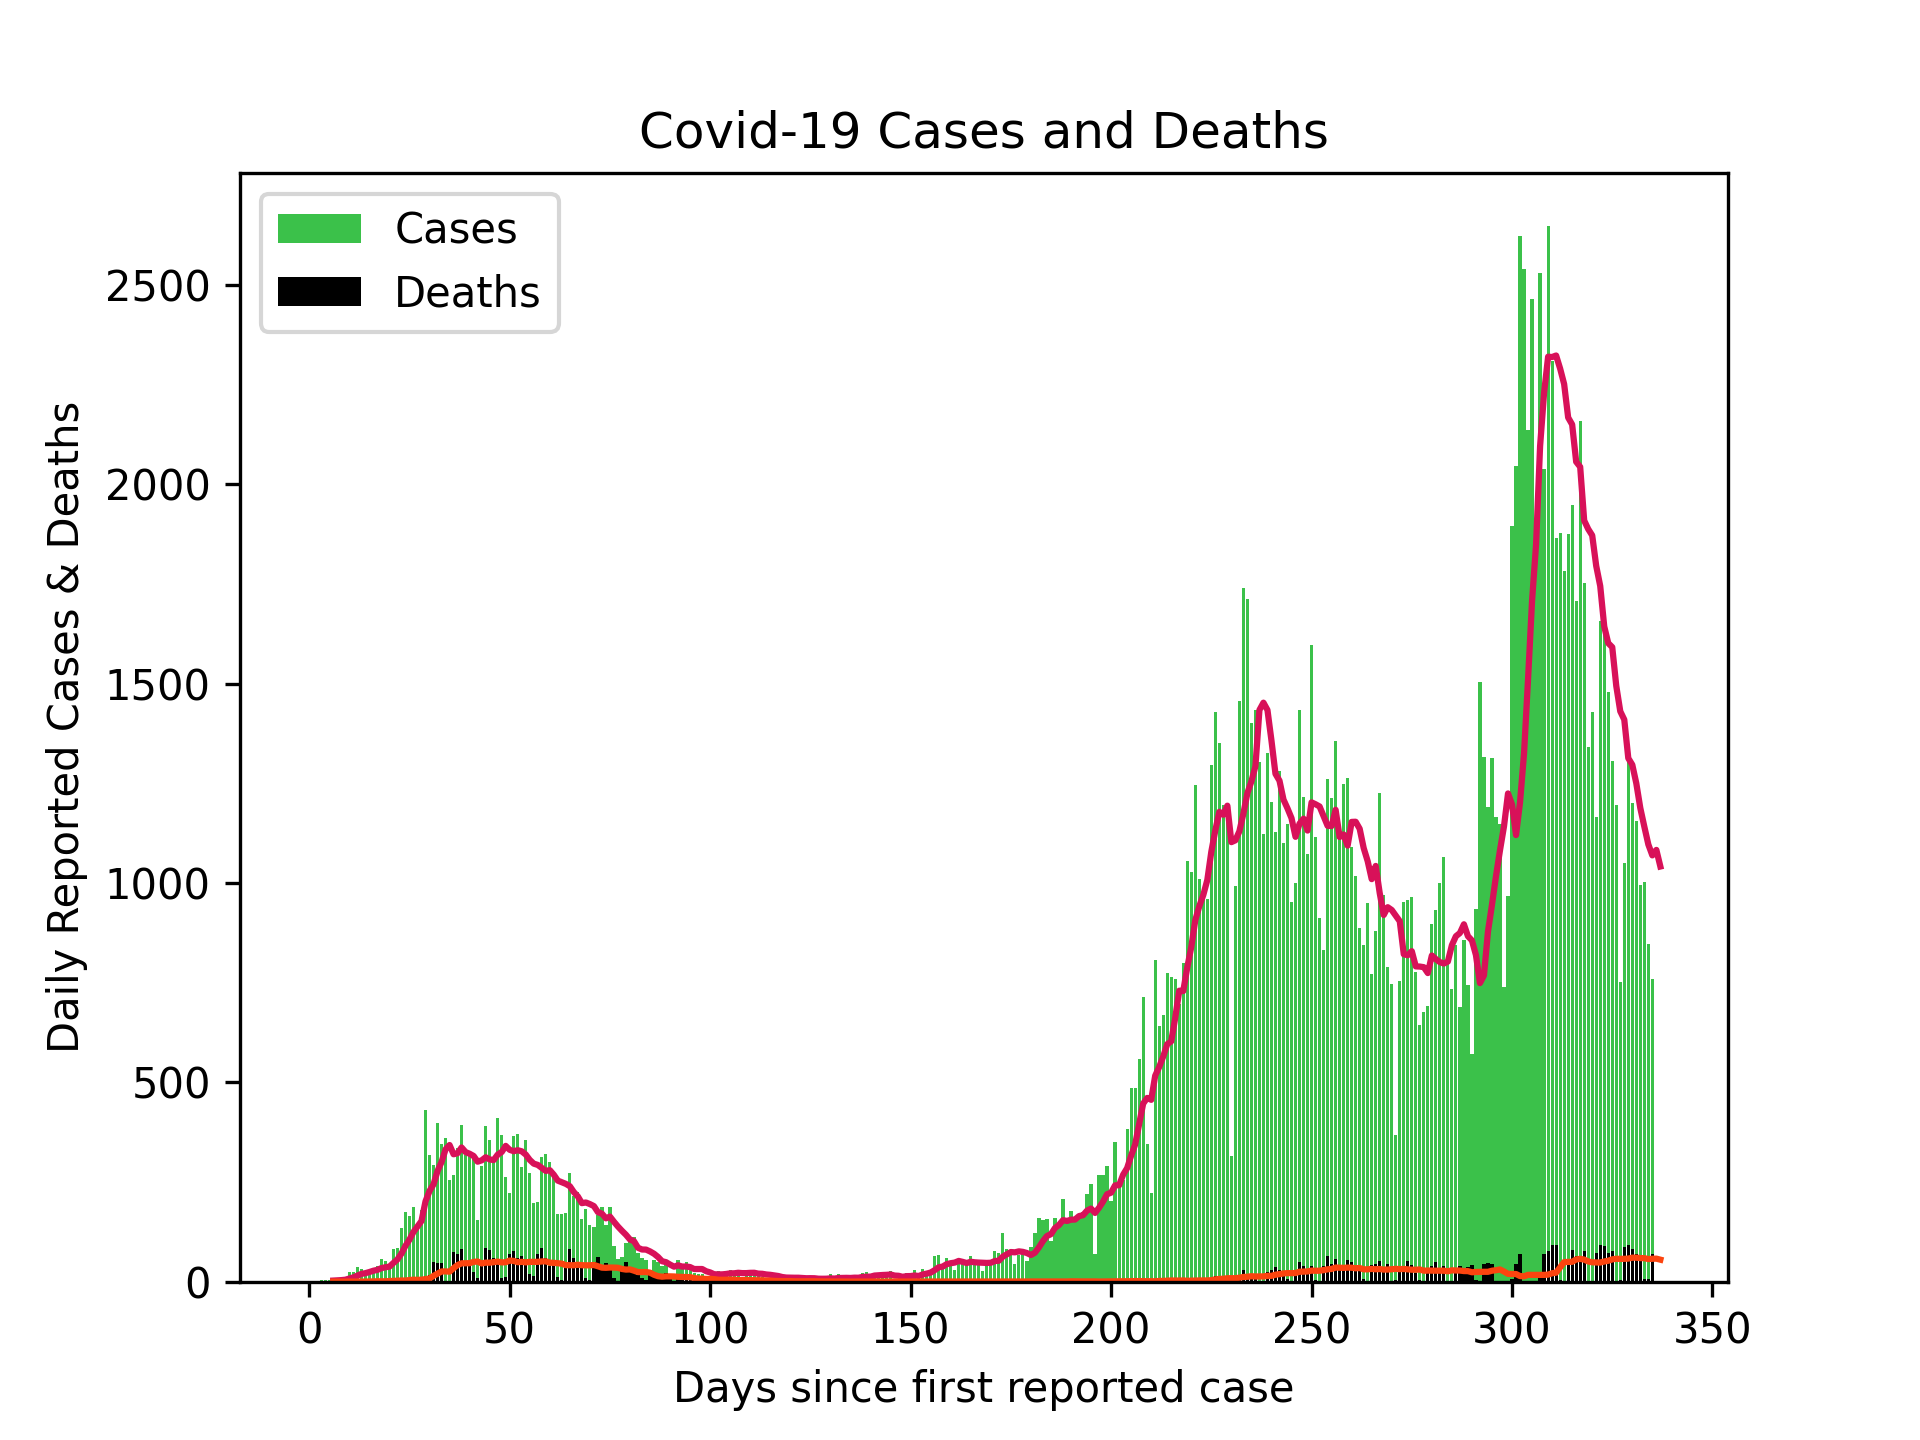
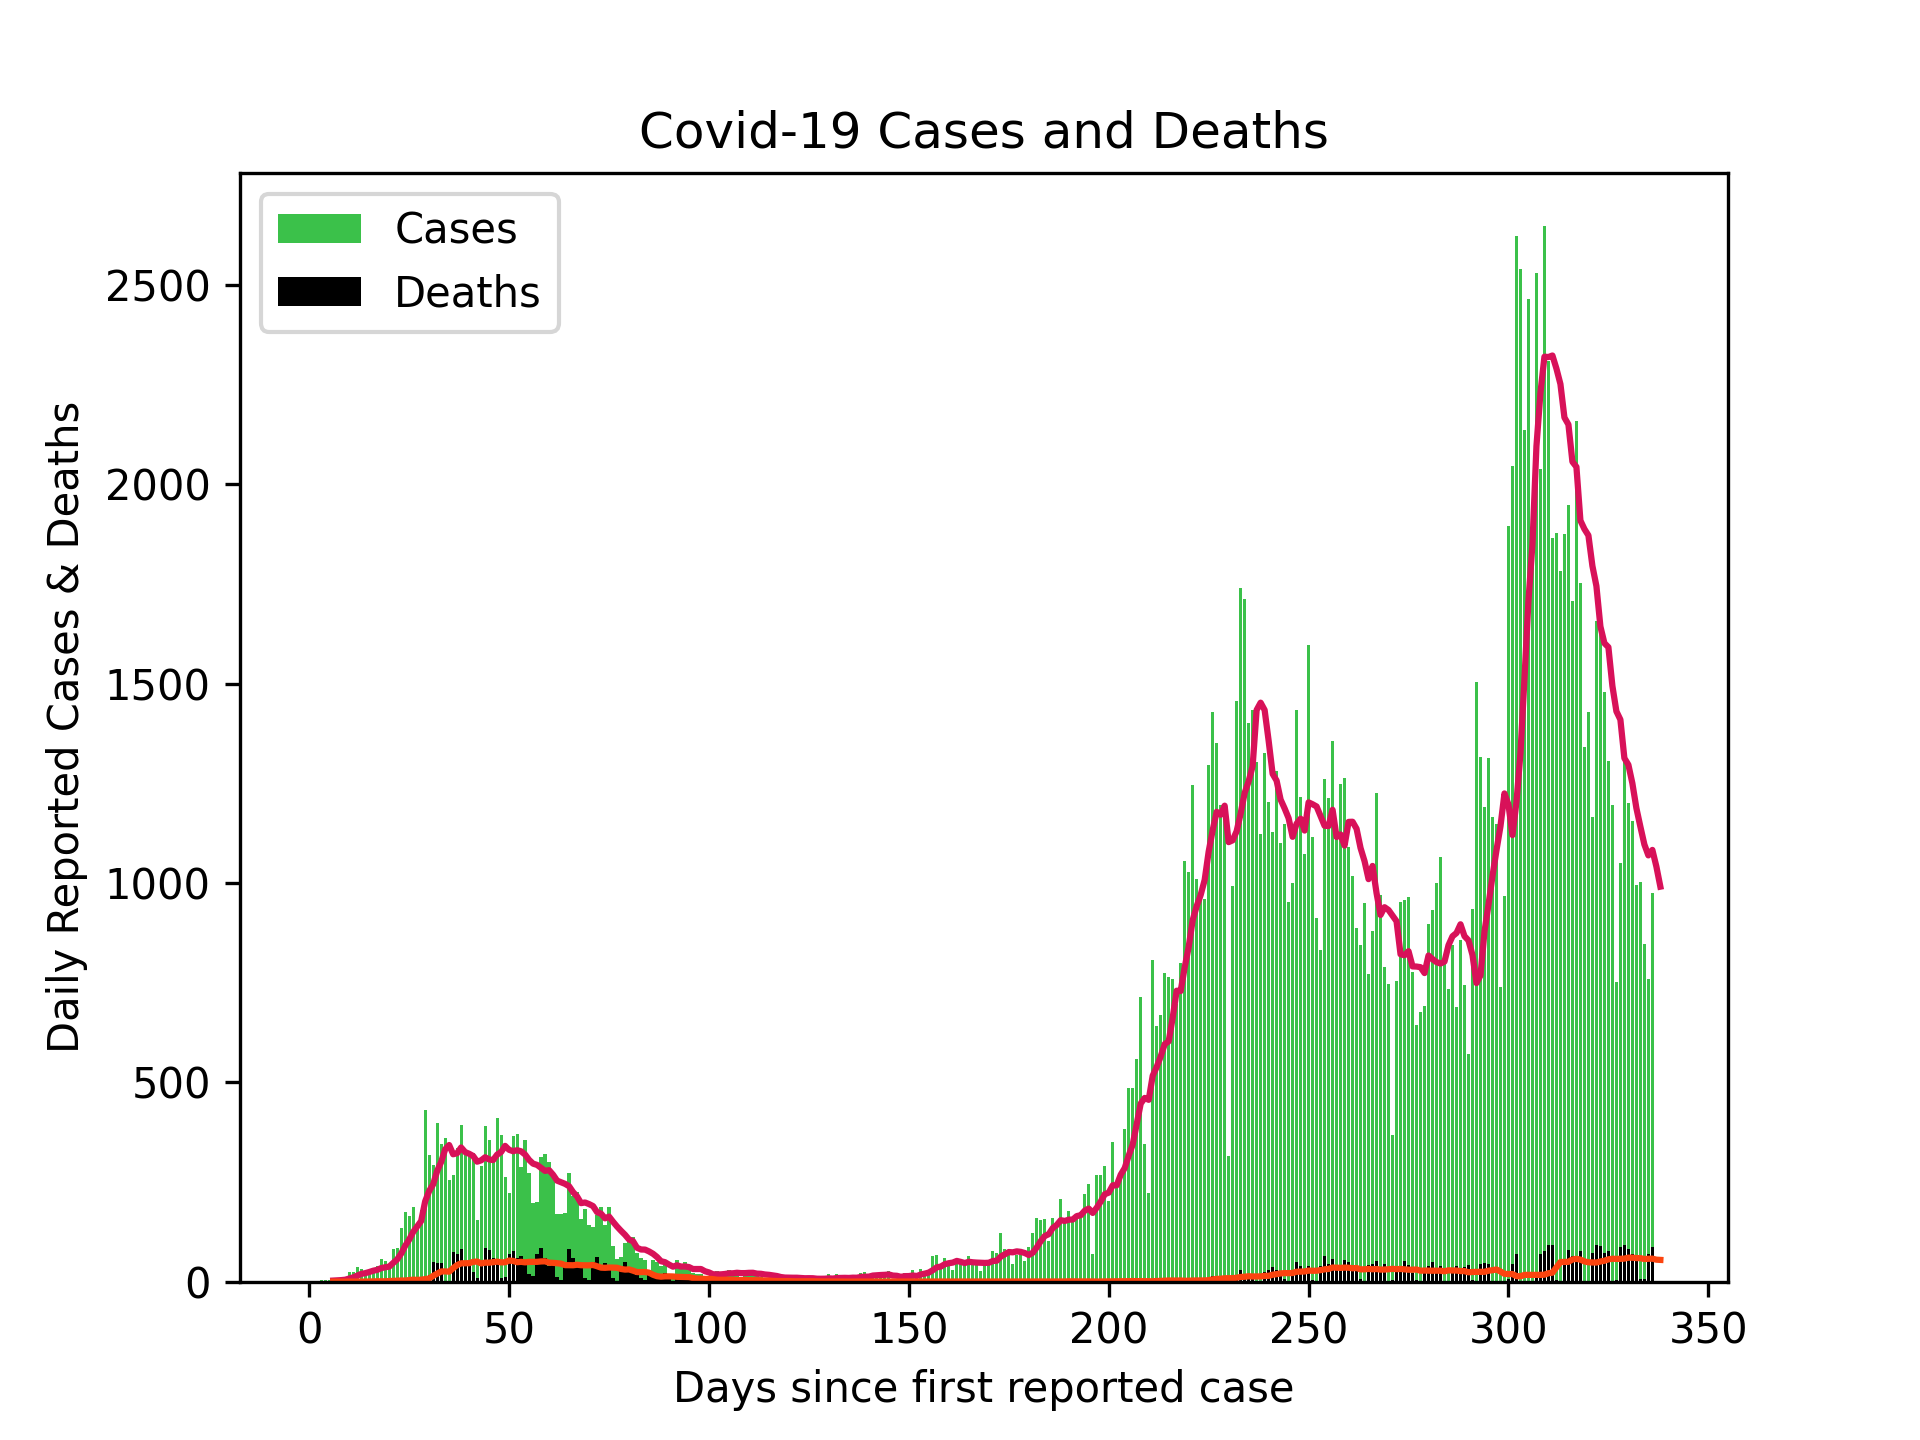
Updated Scottish cases 03/02/21

diff --git a/README.md b/README.md
@@ -1,4 +1,4 @@
-# Scottish Cases 02/02/21
+# Scottish Cases 03/02/21
 
 ![alt](scottish_cases.png)
 
